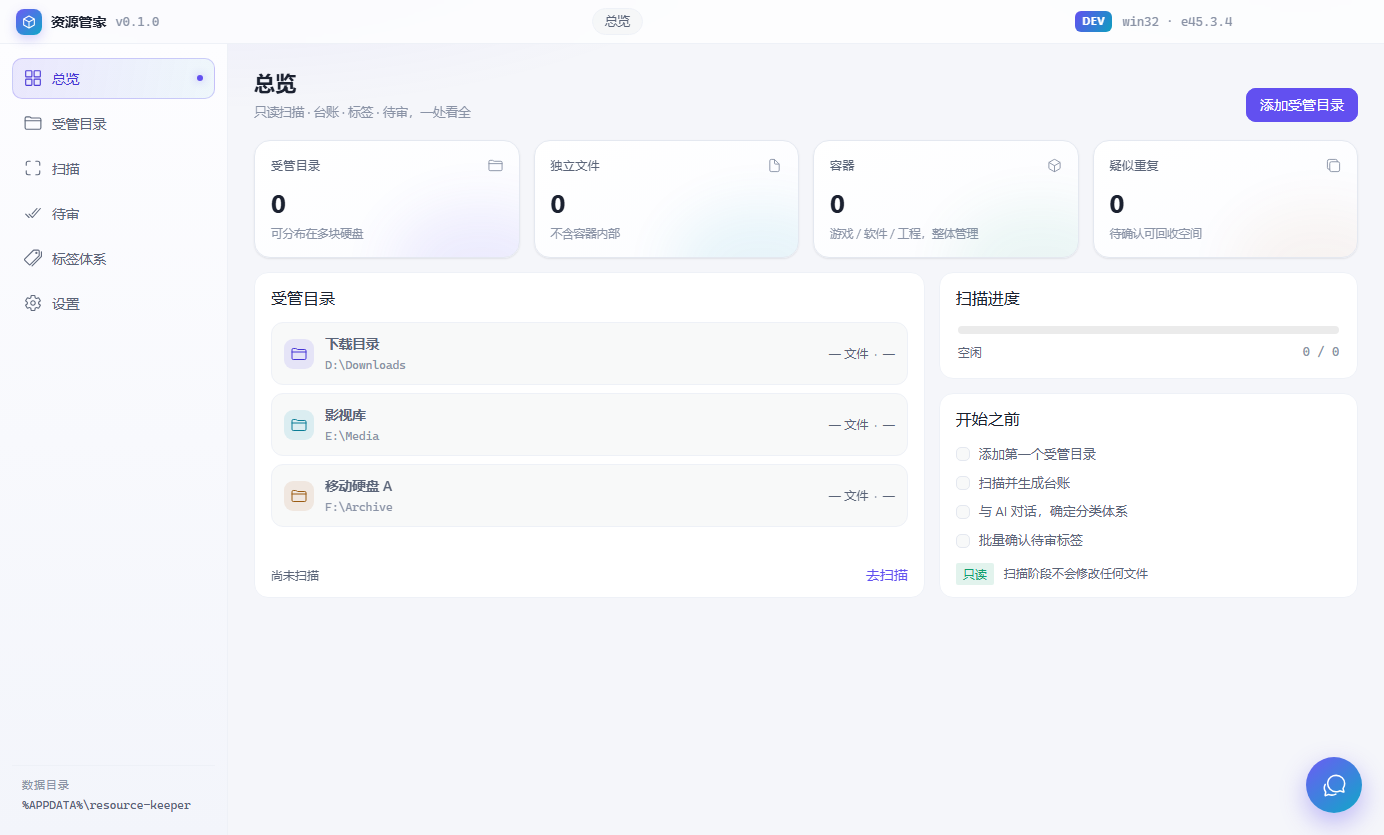
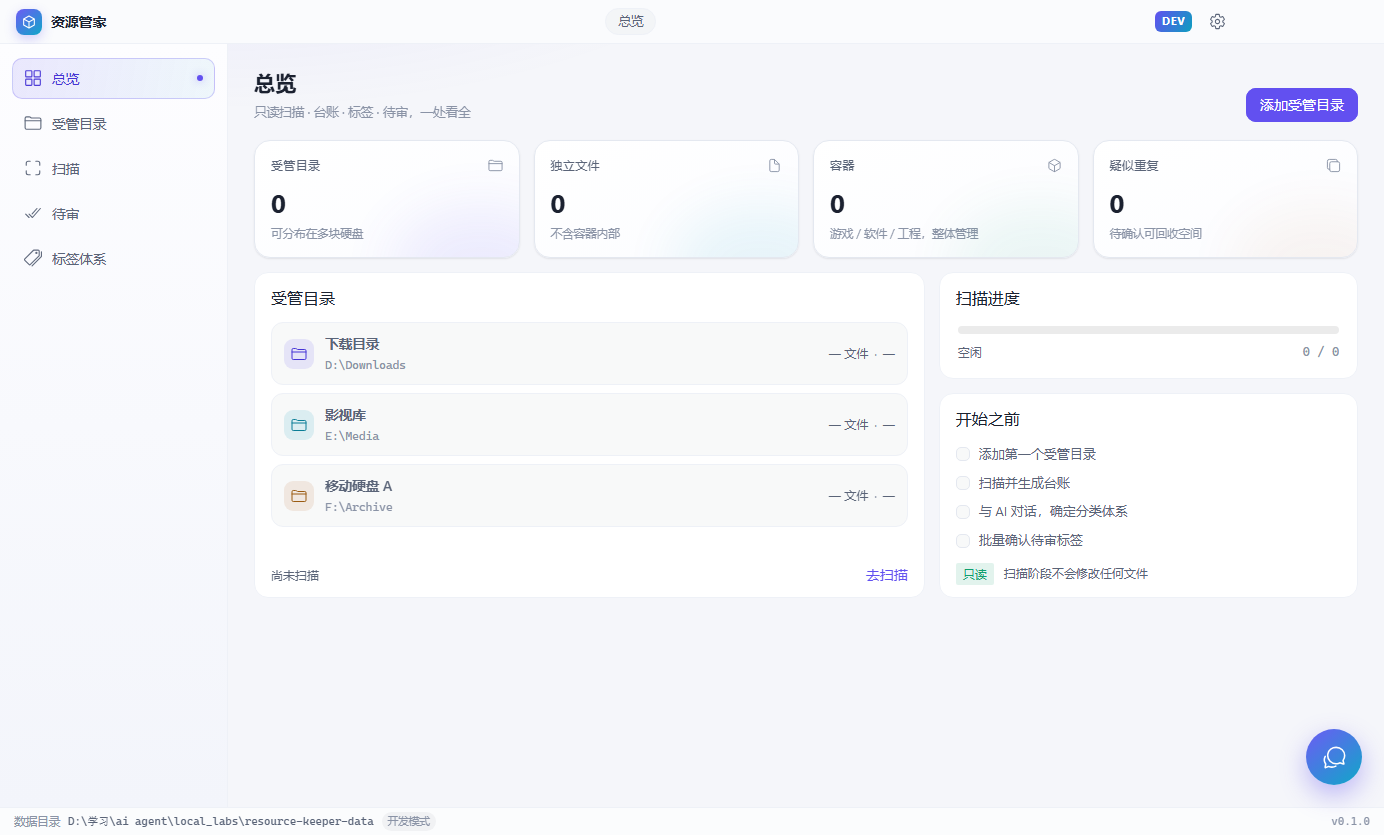
fix(ui): 设置入口移到标题栏右上角，模型页只留 OpenAI 一条预设
- 侧栏去掉「设置」，改成标题栏右上的齿轮（紧邻系统窗口按钮）
- 标题栏底色改为实色 --titlebar-bg，并让主进程 titleBarOverlay 用同一个值，
  修掉右上角窗口按钮区与标题栏两块底色不一致
- 模型页删掉 DeepSeek / 通义千问 / Ollama 三条内置预设，只留 OpenAI；
  旧配置里残留的这三条在读取时自动清掉
- 列表里所有条目都能删（不再只有自定义项可删），「自定义」标签不再展示

diff --git a/src/renderer/src/components/AppTitlebar.vue b/src/renderer/src/components/AppTitlebar.vue
@@ -1,6 +1,8 @@
 <script setup lang="ts">
 import { useRoute } from 'vue-router'
+import { SettingsOutline } from '@vicons/ionicons5'
 import { appInfo } from '../lib/appInfo'
+import { openSettings } from '../lib/settingsStore'
 
 const route = useRoute()
 </script>
@@ -30,6 +32,10 @@ const route = useRoute()
     <div class="right">
       <!-- 运行时信息（平台、Electron 版本）不展示：版本号统一放窗口底部状态栏 -->
       <span v-if="appInfo.dev" class="badge">DEV</span>
+      <!-- 设置入口放在右上角，紧邻系统的窗口按钮：侧栏只留页面导航 -->
+      <button class="gear" title="设置" aria-label="设置" @click="openSettings()">
+        <SettingsOutline />
+      </button>
     </div>
   </header>
 </template>
@@ -43,8 +49,9 @@ const route = useRoute()
   gap: 12px;
   padding: 0 152px 0 16px; /* 右侧给系统按钮留位 */
   border-bottom: 1px solid var(--line-soft);
-  background: var(--glass);
-  backdrop-filter: blur(12px);
+  /* 实色不能省：系统窗口按钮区由 titleBarOverlay 的 color 单画，
+     这里若是半透明玻璃层，那片会和标题栏差出一块底色 */
+  background: var(--titlebar-bg);
   -webkit-app-region: drag;
   user-select: none;
 }
@@ -101,5 +108,36 @@ const route = useRoute()
   color: #fff;
   background: linear-gradient(120deg, #6250f0, #0d9fbf);
   font-weight: 700;
+}
+
+/* 标题栏整条是拖拽区，按钮必须自己取消拖拽，否则点不动 */
+.gear {
+  -webkit-app-region: no-drag;
+  width: 30px;
+  height: 30px;
+  display: grid;
+  place-items: center;
+  padding: 0;
+  border: 1px solid transparent;
+  border-radius: 8px;
+  background: transparent;
+  color: var(--text-2);
+  cursor: pointer;
+  transition: background 0.15s, color 0.15s, border-color 0.15s;
+}
+
+.gear:hover {
+  color: var(--text);
+  background: var(--hover-2);
+  border-color: var(--line-soft);
+}
+
+.gear:active {
+  background: var(--hover-2);
+}
+
+.gear :deep(svg) {
+  width: 17px;
+  height: 17px;
 }
 </style>

diff --git a/src/renderer/src/components/SettingsDialog.vue b/src/renderer/src/components/SettingsDialog.vue
@@ -377,7 +377,7 @@ onBeforeUnmount(() => document.removeEventListener('keydown', onKeydown))
               <!-- ============ 模型 ============ -->
               <section v-if="settings.section === 'model'" class="sec">
                 <h2 class="sec-title">模型</h2>
-                <p class="sec-sub">填入各提供商的 API 密钥即可使用其模型。</p>
+                <p class="sec-sub">填入 API 密钥即可使用这家服务商的模型；换一家就点「添加模型提供商」。</p>
 
                 <div class="plist">
                   <div
@@ -394,7 +394,6 @@ onBeforeUnmount(() => document.removeEventListener('keydown', onKeydown))
                       >
                         {{ p.label }}
                       </button>
-                      <span v-if="!p.preset" class="tag">自定义</span>
                       <span v-if="p.id === state.activeId" class="tag cur">使用中</span>
                       <span
                         class="dot"
@@ -406,7 +405,7 @@ onBeforeUnmount(() => document.removeEventListener('keydown', onKeydown))
                         <button class="line-btn" @click="toggleEdit(p)">
                           {{ editingId === p.id ? '收起' : '编辑' }}
                         </button>
-                        <n-popconfirm v-if="!p.preset" @positive-click="remove(p)">
+                        <n-popconfirm @positive-click="remove(p)">
                           <template #trigger>
                             <button class="line-btn danger">删除</button>
                           </template>

diff --git a/src/main/config.ts b/src/main/config.ts
@@ -33,29 +33,15 @@ export const PRESETS: PresetDef[] = [
     desc: 'api.openai.com',
     baseUrl: 'https://api.openai.com/v1',
     model: 'gpt-4o-mini'
-  },
-  {
-    id: 'deepseek',
-    label: 'DeepSeek',
-    desc: 'api.deepseek.com',
-    baseUrl: 'https://api.deepseek.com/v1',
-    model: 'deepseek-chat'
-  },
-  {
-    id: 'qwen',
-    label: '通义千问',
-    desc: 'DashScope 兼容模式',
-    baseUrl: 'https://dashscope.aliyuncs.com/compatible-mode/v1',
-    model: 'qwen-plus'
-  },
-  {
-    id: 'ollama',
-    label: 'Ollama',
-    desc: '本机 11434 端口',
-    baseUrl: 'http://localhost:11434/v1',
-    model: 'qwen2.5:7b'
   }
 ]
+
+/**
+ * 早期版本内置过、现在不再提供的预设。
+ * 配置里读到这些 id 就直接丢掉 —— 预设删了但旧配置还留着，界面会冒出一串用不上的条目。
+ * 只删「本来就是内置默认值」的那些条目，用户自己改过的 key/地址不做还原。
+ */
+const RETIRED_PRESET_IDS = new Set(['deepseek', 'qwen', 'ollama'])
 
 /** 模型目录里的一条：id 发给服务端，note 只给人看（比如「2折」） */
 export interface ModelEntry {
@@ -259,6 +245,12 @@ function normalize(): { providers: ProviderConfig[]; activeId: string; needSave:
     needSave = true
   } else {
     raw = defaultProviders()
+    needSave = true
+  }
+
+  // 旧配置里还留着已下线的内置预设：直接清掉
+  if (raw.some((p) => RETIRED_PRESET_IDS.has(p.id ?? ''))) {
+    raw = raw.filter((p) => !RETIRED_PRESET_IDS.has(p.id ?? ''))
     needSave = true
   }
 

diff --git a/src/renderer/src/components/AppSidebar.vue b/src/renderer/src/components/AppSidebar.vue
@@ -6,11 +6,9 @@ import {
   FolderOutline,
   ScanOutline,
   CheckmarkDoneOutline,
-  PricetagsOutline,
-  SettingsOutline
+  PricetagsOutline
 } from '@vicons/ionicons5'
 import type { Component } from 'vue'
-import { openSettings } from '../lib/settingsStore'
 
 const route = useRoute()
 const router = useRouter()
@@ -21,7 +19,7 @@ interface NavItem {
   icon: Component
 }
 
-/** 设置不再是路由页：它是盖在窗口上的弹窗，所以单独放 */
+/** 设置不在侧栏：它是标题栏右上角的齿轮打开的弹窗 */
 const items: NavItem[] = [
   { path: '/dashboard', title: '总览', icon: GridOutline },
   { path: '/libraries', title: '受管目录', icon: FolderOutline },
@@ -49,12 +47,6 @@ function go(path: string): void {
       >
         <span class="icon"><component :is="item.icon" /></span>
         <span class="label">{{ item.title }}</span>
-        <span class="dot" />
-      </button>
-
-      <button class="nav-item settings" @click="openSettings()">
-        <span class="icon"><SettingsOutline /></span>
-        <span class="label">设置</span>
         <span class="dot" />
       </button>
     </nav>
@@ -135,10 +127,5 @@ function go(path: string): void {
 .nav-item.on .dot {
   background: var(--accent);
   box-shadow: 0 0 8px rgba(98, 80, 240, 0.45);
-}
-
-/* 设置是弹窗入口，不参与路由高亮，用一条间距和上面的页面分开 */
-.nav-item.settings {
-  margin-top: 8px;
 }
 </style>

diff --git a/src/main/index.ts b/src/main/index.ts
@@ -44,8 +44,11 @@ function createWindow(): BrowserWindow {
     autoHideMenuBar: true,
     backgroundColor: '#f5f6fa',
     titleBarStyle: 'hidden',
+    // 窗口按钮区（最小化/最大化/关闭）由系统按这个色自己画，渲染层盖不住它。
+    // 必须和渲染层的 --titlebar-bg 完全一致，否则右上角会出现一块色差。
+    // 改色时两处一起改：这里是主进程，那边在 src/renderer/src/styles/_tokens.scss
     titleBarOverlay: {
-      color: '#f5f6fa',
+      color: '#fafbfd',
       symbolColor: '#5a6478',
       height: 44
     },

diff --git a/src/renderer/src/styles/_tokens.scss b/src/renderer/src/styles/_tokens.scss
@@ -29,7 +29,9 @@
   // ---- 交互态 / 玻璃层 ----
   --hover: rgba(16, 24, 40, 0.028);
   --hover-2: rgba(16, 24, 40, 0.045);
-  --glass: rgba(255, 255, 255, 0.75);
+  /* 标题栏用实色：右上角窗口按钮区由系统按这个色画，两边必须是同一个不透明值，
+     否则那片区域和标题栏会显出两种底色 */
+  --titlebar-bg: #fafbfd;
   --nav-active-bg: rgba(98, 80, 240, 0.1);
   --nav-active-text: #4634d6;
   --nav-active-border: rgba(98, 80, 240, 0.26);

diff --git a/README.md b/README.md
@@ -11,7 +11,7 @@
 当前是 **阶段 0：界面骨架**。所有页面、导航、视觉体系、IPC 通道都已跑通，数据是占位数据；模型接入的配置层（阶段 2 的前半）已经就位，对话本身还没接。
 
 - ✅ Electron + Vue 3 + TS + Sass 骨架，构建 / 类型检查通过
-- ✅ 5 个页面 + 设置弹窗：总览、受管目录、扫描、待审、标签体系；设置是居中弹窗（点遮罩 / ✕ / Esc 都能退），不占路由
+- ✅ 5 个页面 + 设置弹窗：总览、受管目录、扫描、待审、标签体系；设置是居中弹窗（点遮罩 / ✕ / Esc 都能退），入口在标题栏右上角的齿轮，不占路由
 - ✅ 模型接入：多家提供商并存可切，密钥 DPAPI 加密落盘，带连通性测试、模型目录与「获取可用模型」
 - ✅ 悬浮助手：右下角常驻，任意页面唤起，话术随当前页面切换（当前只有 UI，未接模型）
 - ✅ 主进程 / 渲染进程 IPC 通道搭好（`app:info`、`db:overview`、窗口控制）
@@ -37,6 +37,7 @@
 | ![标签体系](docs/screenshots/tags.png) | ![悬浮助手](docs/screenshots/assistant.png) |
 
 设置弹窗见 [提供商列表](docs/screenshots/settings.png) 与 [行内编辑面板](docs/screenshots/settings-model.png)。
+模型页只内置 OpenAI 一条，其余服务商自己「添加模型提供商」（地址、协议、模型都能改），列表里的条目都可删。
 
 ---
 
